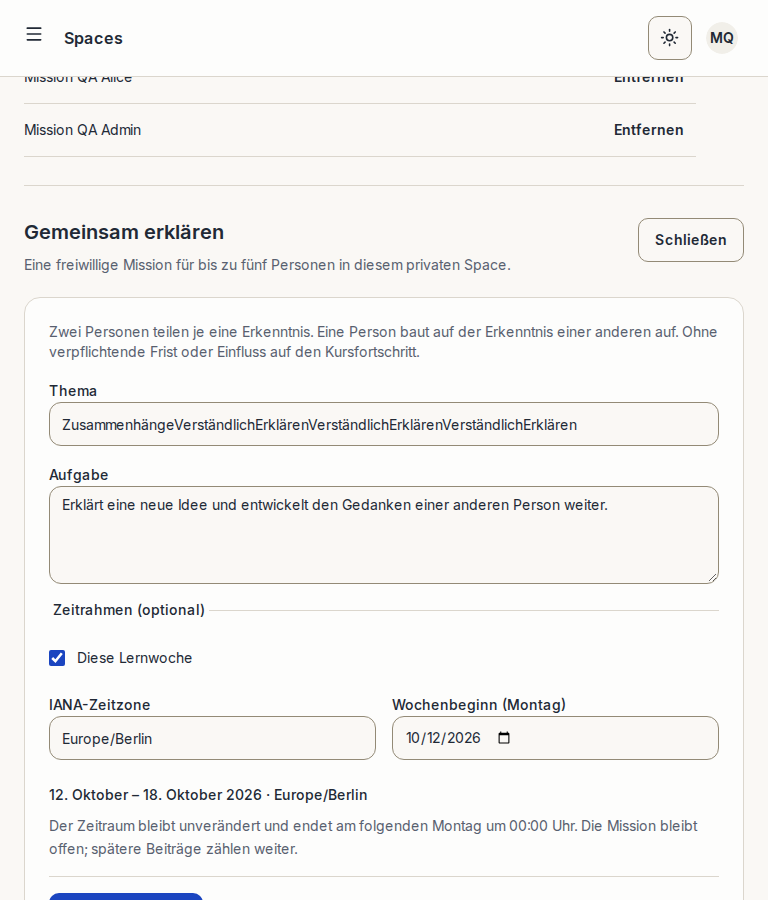
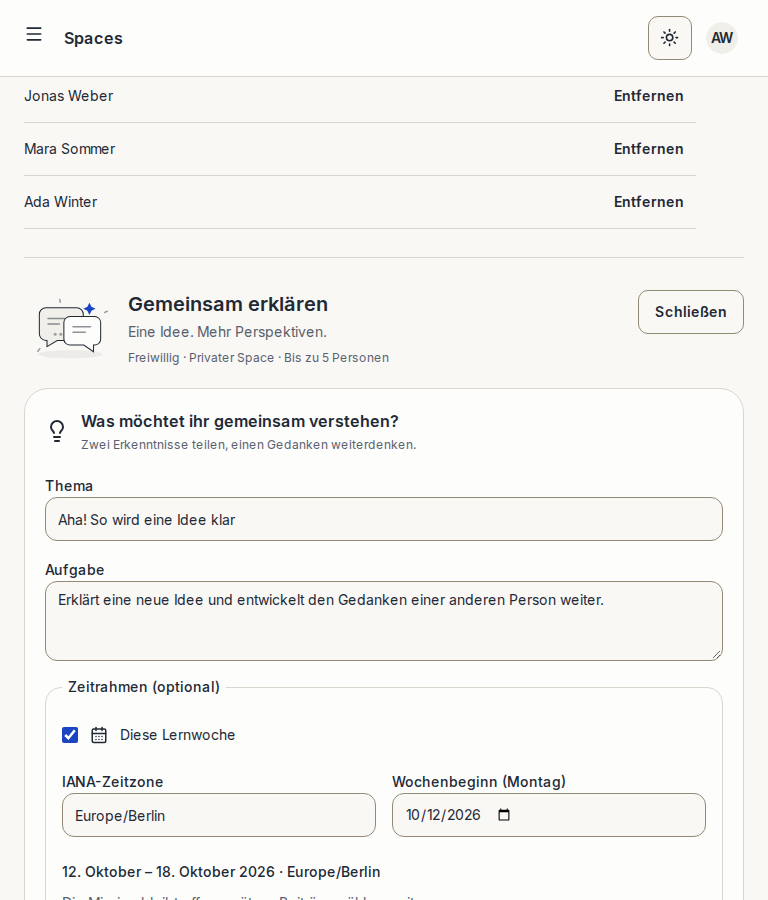
docs: refresh friendly Space screenshots (#68)
Refresh README/UI documentation with original captures from passing PR #67 browser QA. Preserve historical audit sections and update gallery hashes.

Documentation-only: two Markdown files and five PNGs. Independently reviewed tree 6e01fde0259e7acbe5fe0ced38428de607b645a3; all seven PR CI jobs passed.

diff --git a/docs/ui/README.md b/docs/ui/README.md
@@ -10,66 +10,72 @@ can set up database fixtures directly; the soft-week fixture is disclosed below.
 ## Current Space captures
 
 - Capture date: 16 October 2026
-- PR head: [`0a8cead91c7f24609236bd516a61722d22472001`](https://github.com/storminator89/forgeCommunity/commit/0a8cead91c7f24609236bd516a61722d22472001), source tree `9ea80641be9e08520675503971124e76aeee0770`
-- CI checkout: [`0596795d17ddbd3018737519c7072c1540b9397b`](https://github.com/storminator89/forgeCommunity/commit/0596795d17ddbd3018737519c7072c1540b9397b), the PR merge ref recorded in the browser-job checkout log, with the same Git tree as the PR head and merged main
-- Merged main: [`38a0826458387056ea079d46797b3be4b7a36b96`](https://github.com/storminator89/forgeCommunity/commit/38a0826458387056ea079d46797b3be4b7a36b96), with the same source tree as the PR head
-- Workflow: [exact-head PR run 38871008041](https://github.com/storminator89/forgeCommunity/actions/runs/38871008041), **all seven jobs passed**. The browser job completed separate desktop/320px/390px Chromium invocations and four Firefox/WebKit critical journeys. The PostgreSQL release job completed the mission, poll and waitlist API contracts.
[1 lines of base64/hex data omitted]
+- PR #67 head: [`ad2c37efb1fddd62da165aea06333fd6642946ff`](https://github.com/storminator89/forgeCommunity/commit/ad2c37efb1fddd62da165aea06333fd6642946ff)
+- CI checkout: [`d173eda604865b11a859e26ae83d771ab1b60d4e`](https://github.com/storminator89/forgeCommunity/commit/d173eda604865b11a859e26ae83d771ab1b60d4e), the PR merge ref recorded in the browser-job checkout log
+- Merged main: [`190320b6c4beb3ed0dd04fb8cbba49e59c90cf8a`](https://github.com/storminator89/forgeCommunity/commit/190320b6c4beb3ed0dd04fb8cbba49e59c90cf8a). All three commits have tree `aa5e95ce63348f80e0ba57bbe4a0d467a49e9fe2`.
+- Workflow: [exact-head PR run 38884491467](https://github.com/storminator89/forgeCommunity/actions/runs/38884491467), **all seven jobs passed**, including desktop/320px/390px Chromium, four Firefox/WebKit critical journeys, and PostgreSQL mission/poll/waitlist contracts
[1 lines of base64/hex data omitted]
 
 The artifact paths below include the per-project output directory.
 
 | Repository image | Artifact path | Viewport / PNG dimensions | State |
 | --- | --- | --- | --- |
+| `readme/space-mission-overview-light-768.png` | `desktop-chromium/space-mission-overview.pw.-de9c7-voked-membership-on-refresh-desktop-chromium/mission-overview-Hell-768.png` | 768×900 / 768×900 | One open, self-paced mission in the caller's private Space; viewing has not joined the mission |
 | `readme/space-learning-week-form-light-768.png` | `desktop-chromium/cooperative-space-missions-351b2-ate-in-a-real-private-Space-desktop-chromium/mission-week-form-Hell-768.png` | 768×900 / 768×900 | Scrolled admin creation form, optional current Monday/week and Europe/Berlin zone selected; submit is below the fold |
 | `readme/space-mission-light-768.png` | `desktop-chromium/cooperative-space-missions-351b2-ate-in-a-real-private-Space-desktop-chromium/mission-Hell-768.png` | 768×900 / 768×900 | Joined learner, soft week ended but mission open, two current insights and one valid cross-person build-on; lower detail is below the fold |
-| `readme/space-mission-dark-320.png` | `desktop-chromium/cooperative-space-missions-351b2-ate-in-a-real-private-Space-desktop-chromium/mission-Dunkel-320.png` | 320×900 / 320×900 | Same mission in dark mode, top viewport; the long fixture title wraps and contribution controls are lower down |
-| `readme/space-poll-light-768.png` | `desktop-chromium/space-polls.pw.ts-members--f283b-ose-and-lose-revoked-access-desktop-chromium/poll-Hell-768.png` | 768×900 / 768×900 | Private-Space member's changed choice and option totals; lower action controls are outside this viewport |
+| `readme/space-mission-dark-320.png` | `desktop-chromium/cooperative-space-missions-351b2-ate-in-a-real-private-Space-desktop-chromium/mission-Dunkel-320.png` | 320×900 / 320×900 | Same mission in dark mode, top viewport; lower milestone detail and contribution controls are outside the frame |
+| `readme/space-poll-light-768.png` | `desktop-chromium/space-polls.pw.ts-members--f283b-ose-and-lose-revoked-access-desktop-chromium/poll-Hell-768.png` | 768×900 / 720×629 | Unedited poll-section capture with three synthetic members' votes, caller's changed saved choice and action control |
 
-SHA-256 of the four new committed PNGs:
+SHA-256 of the five current committed PNGs:
 
 ```text
-405888aace2b4b164dbc8f70d392b3c1966db5677cc8f56b4287328c47de1342  readme/space-learning-week-form-light-768.png
-77fea2b33a2778d220264d13153ed79bc10ff45724d7466a8c8f320471d188c2  readme/space-mission-light-768.png
-ec5da3c772545eba1dd6c07b3b7a3324c2db26fd567da893df87ef4f34a4b2ab  readme/space-mission-dark-320.png
-8dd7775b1e51f62a34983cd4173d806aec5c5f552b787476892dd7f151d1a9bd  readme/space-poll-light-768.png
+da909803f80d021548954f34e2ae97572f6b0ce0eb15ba7470586115436d2f84  readme/space-mission-overview-light-768.png
+1aaffff697be8e8217d7df4e5fde5255add56265250d04627f007f09da1264ec  readme/space-learning-week-form-light-768.png
+01ce09a061e495f6c66cee88d5d719465c4c5612ff2c8eafffd2382229464d2d  readme/space-mission-light-768.png
+35488fa856b13a964d7b8f255d5ea2b3909527b9c023a00899bfd43d16068a87  readme/space-mission-dark-320.png
+b6ec8ae9680bbc93e6d63f58458f77b229f7827c713feace97eedd5865c534de  readme/space-poll-light-768.png
 ```
 
 The [mission journey](../../e2e/cooperative-space-missions.pw.ts) registers
-synthetic accounts, promotes its synthetic admin directly in the guarded
-SQLite fixture, and creates the private Space and mission through real APIs/UI.
-The administrator creates the current week through the actual form. After two
-real participant insights, the test directly moves that disposable mission's
-immutable stored window back one week, then reloads and submits the cross-person
-build-on through the real UI. This deliberate fixture enables an ended-week
-state without waiting a week. **Production has no schedule-edit or time-travel
-control.** The visible cooperation total includes the late build-on; it is not
-a claim of on-time participation or measured learning.
+synthetic accounts, promotes its synthetic admin directly in guarded SQLite,
+and creates the private Space and mission through real APIs/UI. After the
+administrator creates the current week through the form and two participants
+share insights, the test directly moves the disposable stored window back one
+week, then reloads and submits the cross-person build-on through the UI.
+**Production has no schedule-edit or time-travel control.** The visible total
+includes that late contribution; it proves neither on-time participation nor
+real user qualification or measured learning.
 
-The [poll journey](../../e2e/space-polls.pw.ts) creates a private Space and poll,
-then casts/changes two members' choices through the real app. The displayed
-options, totals and caller's saved choice come from its actual server responses.
-No voter identities are projected. Small-group choices can still be inferred;
-the visible privacy notice is preserved. Long questions/titles and short random
-Space-name suffixes are intentional synthetic reflow fixtures.
+The [overview journey](../../e2e/space-mission-overview.pw.ts) discovers a real
+API-created mission from an unenrolled synthetic learner's private Space.
+Browsing the overview does not create mission consent or participation. The
+[poll journey](../../e2e/space-polls.pw.ts) records three synthetic members' votes
+through the real API/UI, including the caller's changed choice. Displayed totals
+and saved choice are server responses. Voter identities are not projected;
+small-group choices can still be inferred, as the visible notice explains.
+The selected demo frames are separate from the long-content stress captures.
 
-The separate [post-merge main run 38872143016](https://github.com/storminator89/forgeCommunity/actions/runs/38872143016)
-also passed all seven jobs on 16 October. It is additional integration evidence;
-these PNGs still come from the PR artifact above.
+The [post-merge main run 38885812817](https://github.com/storminator89/forgeCommunity/actions/runs/38885812817)
+also passed all seven jobs on 16 October. These PNGs still come from the PR
+artifact above, not from a later documentation commit.
 
-The public `readme/landing-desktop-light.png` was also retrieved and checked
-from `desktop-chromium/browser-qa.pw.ts-landing-a-79ba0--work-on-desktop-and-mobile-desktop-chromium/landing.png`
-in this artifact. Its 1280×1471 bytes/hash are identical to the historical
-landing image recorded below, so no duplicate PNG was added. The source
-viewport was 1280×800 and the capture covers the full document.
+The previous Space captures came from [PR #65 run 38871008041](https://github.com/storminator89/forgeCommunity/actions/runs/38871008041),
+head `0a8cead91c7f24609236bd516a61722d22472001`, tree
+`9ea80641be9e08520675503971124e76aeee0770` (also merged main
+`38a0826458387056ea079d46797b3be4b7a36b96`). They are superseded here; their
+original provenance and bytes remain in Git history. The unchanged public
+`readme/landing-desktop-light.png` retains its historical attribution below.
+It was also retrieved byte-identically from PR #65's
+`desktop-chromium/browser-qa.pw.ts-landing-a-79ba0--work-on-desktop-and-mobile-desktop-chromium/landing.png`
+(1280×800 viewport, 1280×1471 full-document PNG).
 
-The selected new pixels show synthetic names and content, with no email,
-password, token, real member record, or production activity. They preserve
-actual focus outlines, scroll positions and viewport clipping. Mission/poll
-journeys check 320/375/414/768px light/dark reflow and 200% CSS zoom, but these
-four frames are a narrower visual sample. They do not establish complete mobile
-workflows, assistive-technology compatibility, WCAG conformance, or broad
-Firefox/WebKit visual coverage. Earlier learning captures retain their own
-source attribution below; the new run does not relabel those earlier bytes.
+The five selected images show synthetic CI test data, with no email, password,
+token, real member record, or production activity. They preserve actual focus
+outlines, scroll positions and clipping. Mission/overview/poll journeys check
+320/375/414/768px light/dark reflow and 200% CSS zoom, but these frames are a
+narrower visual sample. They do not establish complete mobile workflows,
+assistive-technology compatibility, WCAG conformance, or broad Firefox/WebKit
+visual coverage. Earlier captures retain their own attribution below.
 
 ## Earlier practice captures
 
@@ -202,7 +208,7 @@ browser journey and API/database evidence have their own scope in the
 
 ## Refresh instructions
 
-The Space mission/week, poll, saved course draft, publication review, and real
+The Space mission overview/week, poll, course draft/publication review, and
 learner practice/feedback have reviewed captures above. Further targets are an
 actual-data opt-in screen, the practice author workspace with controls in view,
 the private course author worklist, and version-restore-as-draft state. Include a narrow viewport
@@ -218,9 +224,10 @@ remain labeled and are not overwritten.
    `e2e/course-editor.pw.ts` flow. The staged-publication journey in that same
    test file generated the two course captures. The separate
    `e2e/formative-practice-real-learner.pw.ts` journey generated the two earlier
-   practice captures. `e2e/cooperative-space-missions.pw.ts` and
-   `e2e/space-polls.pw.ts` generated the current Space captures. Inspect a new
-   run's real artifacts before selecting any further images; distinguish
+   practice captures. `e2e/cooperative-space-missions.pw.ts`,
+   `e2e/space-polls.pw.ts` and `e2e/space-mission-overview.pw.ts` generated the
+   current Space captures. Inspect a new run's real artifacts before selecting
+   any further images; distinguish
    API-intercepted UI tests from end-to-end learner evidence.
 3. Retrieve the exact run's artifact and inspect actual pixels before copying.
    Reject blank/loading, error, credential-bearing, UUID-heavy, or stale-editor
@@ -246,6 +253,6 @@ including `skills/hallmark/SKILL.md`, the redesign guidance, and output contract
 The applicable guidance is honest content, an existing shared system, real
 screenshots without redrawn chrome, and preserving implementation boundaries.
 This does not claim an installed Hallmark runtime/tool or a fresh app-wide design
-audit. The current pixel review covers the four selected Space frames and the
-byte-identical public landing capture, alongside the earlier scoped
+audit. The current pixel review covers the five selected Space frames; the
+unchanged landing retains its earlier review, alongside the scoped
 learner-practice, course-publication and historical reviews.

diff --git a/README.md b/README.md
@@ -17,29 +17,34 @@ PostgreSQL is an explicit alternative.
 ## Screenshots
 
 These unedited Playwright captures show the real app with disposable synthetic
-accounts and content. The Space learning-week and poll images come from
-[PR #65's passing CI run](https://github.com/storminator89/forgeCommunity/actions/runs/38871008041)
-on [source head `0a8cead`](https://github.com/storminator89/forgeCommunity/commit/0a8cead91c7f24609236bd516a61722d22472001),
-whose source tree matches [merged main `38a0826`](https://github.com/storminator89/forgeCommunity/commit/38a0826458387056ea079d46797b3be4b7a36b96).
-The public landing image was retrieved from that run too and is byte-identical
-to the earlier capture. See [screenshot provenance](docs/ui/README.md) for exact
-artifact paths, hashes, fixture setup, and visual QA limits.
+accounts and content. The current Space images come from
+[PR #67's passing CI run](https://github.com/storminator89/forgeCommunity/actions/runs/38884491467)
+on [source head `ad2c37e`](https://github.com/storminator89/forgeCommunity/commit/ad2c37efb1fddd62da165aea06333fd6642946ff),
+whose source tree matches [merged main `190320b`](https://github.com/storminator89/forgeCommunity/commit/190320b6c4beb3ed0dd04fb8cbba49e59c90cf8a).
+The landing and earlier learning images retain their own attribution. See
+[screenshot provenance](docs/ui/README.md) for artifact paths, hashes, fixture
+setup, and visual QA limits.
 
 ![ForgeCommunity public landing page, desktop light mode](docs/ui/readme/landing-desktop-light.png)
 
 <details>
-<summary>Private Space: optional learning week and cooperation</summary>
+<summary>Private Space: mission discovery, learning week and cooperation</summary>
+
+The mission overview lists open missions in the caller's private Spaces.
+Browsing does not join a mission.
+
+![Private-Space mission overview with one open, self-paced mission, synthetic CI test data](docs/ui/readme/space-mission-overview-light-768.png)
 
 An administrator can attach the current learning week and an explicit IANA zone
-to a new private-Space mission. The first frame shows the real scrolled creation
+to a new private-Space mission. The creation frame shows the real scrolled
 form at 768px; the submit button is below the fold.
 
 ![Private-Space mission creation with optional current learning week and Europe/Berlin zone, synthetic content](docs/ui/readme/space-learning-week-form-light-768.png)
 
-The second frame shows a completed cooperation milestone after the soft week
-ended. The disposable test deliberately moves the stored week into the past to
-exercise that state; the production app has no rescheduling control. The long
-synthetic title tests wrapping. The week ending leaves participation open.
+The mission-detail frame shows a completed cooperation milestone after the soft
+week ended. The disposable test deliberately moves the stored week into the past to
+exercise that state; the production app has no rescheduling control. The week
+ending leaves participation open. This is not evidence of learning qualification.
 
 ![Private-Space mission with an ended soft learning week and a current cooperation milestone, synthetic content](docs/ui/readme/space-mission-light-768.png)
 
@@ -57,9 +62,9 @@ page; this frame does not show a complete mobile workflow.
 <details>
 <summary>Voluntary Space poll</summary>
 
-A current member's changed choice and option totals in a private Space, at
-768px. The synthetic question is deliberately long. The lower action controls
-are below this viewport. Totals are not anonymous in a small group.
+A current member's changed choice and three synthetic members' option totals
+in a private Space. This unedited section capture uses a 768px viewport and
+includes the action control. Totals are not anonymous in a small group.
 
 ![Voluntary private-Space poll with aggregate option totals and the caller's saved choice, synthetic content](docs/ui/readme/space-poll-light-768.png)
 
@@ -425,22 +430,24 @@ server; never aim it at a production or personal database. Run
 1280px and 320px; the journey suites also run at 390px. Some dynamic route-sweep
 responses are synthetic API fixtures, as documented in [route-sweep coverage](docs/ROUTE-SWEEP-QA.md).
 
-The [PR #65 exact-head run 38871008041](https://github.com/storminator89/forgeCommunity/actions/runs/38871008041)
-passed all seven jobs on 16 October 2026 for
-`0a8cead91c7f24609236bd516a61722d22472001`: quality, strict security audit,
+The [PR #67 exact-head run 38884491467](https://github.com/storminator89/forgeCommunity/actions/runs/38884491467)
+and [post-merge main run 38885812817](https://github.com/storminator89/forgeCommunity/actions/runs/38885812817)
+passed all seven jobs on 16 October 2026: quality, strict security audit,
 Docker application flows, PostgreSQL release gate, authenticated PostgreSQL
-publication/learner runtime, browser QA, and aggregate validation. Browser QA
-completed its separate desktop, 320px and 390px Chromium invocations and four
-Firefox/WebKit critical journeys. The Space mission and poll journeys also
-check 320/375/414/768px light/dark layouts and 200% CSS zoom. Their actual
-screenshots are linked above; the suite's fixture and coverage limits still apply.
+publication/learner runtime, browser QA, and aggregate validation. Head
+`ad2c37efb1fddd62da165aea06333fd6642946ff` and merged main
+`190320b6c4beb3ed0dd04fb8cbba49e59c90cf8a` share source tree
+`aa5e95ce63348f80e0ba57bbe4a0d467a49e9fe2`. Browser QA completed separate
+desktop/320px/390px Chromium invocations and four Firefox/WebKit critical
+journeys. Mission, overview and poll journeys also check 320/375/414/768px
+light/dark reflow and 200% CSS zoom; selected actual screenshots are linked
+above with their fixture and coverage limits.
 
-That source tree `9ea80641be9e08520675503971124e76aeee0770` matches merged main
-`38a0826458387056ea079d46797b3be4b7a36b96`. Its separate
-[post-merge main run 38872143016](https://github.com/storminator89/forgeCommunity/actions/runs/38872143016)
-also passed all seven jobs on 16 October 2026. These are dated results for that
-source tree. Earlier practice, course-publication and pre-phase-2 screenshots
-retain their own source/run provenance in the [gallery](docs/ui/README.md).
+Earlier [PR #65 run 38871008041](https://github.com/storminator89/forgeCommunity/actions/runs/38871008041)
+and [main run 38872143016](https://github.com/storminator89/forgeCommunity/actions/runs/38872143016)
+also passed all seven jobs for tree `9ea80641be9e08520675503971124e76aeee0770`.
+Those dated results and earlier learning captures keep their own provenance
+in the [gallery](docs/ui/README.md); the current Space images are from #67.
 
 This is repository integration evidence. Production deployment still requires
 operational review and a backed-up migration rehearsal. Chromium viewport tests
